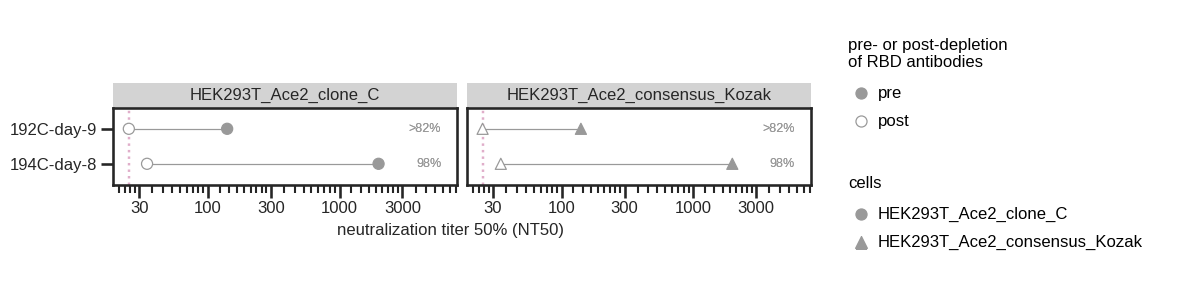
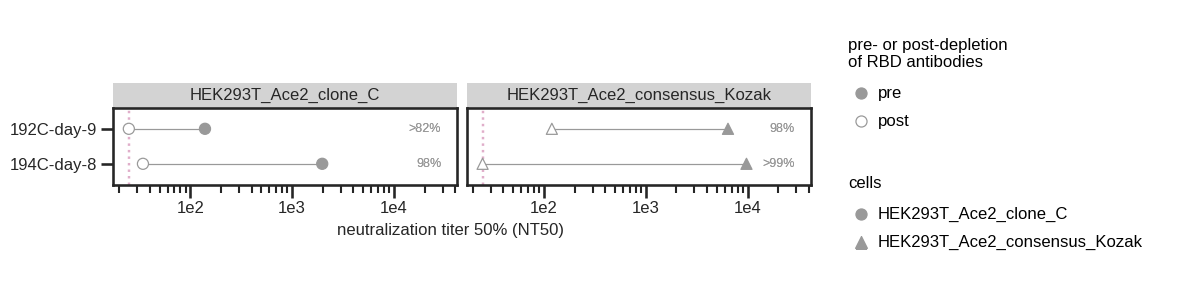
neut results

diff --git a/results/summary/virus_neutralization.md b/results/summary/virus_neutralization.md
@@ -146,37 +146,37 @@ fitparams_combined.head(10)
       <th>0</th>
       <td>192C-day-9__HEK293T_Ace2_consensus_Kozak</td>
       <td>pre-depletion</td>
-      <td>0.007157</td>
+      <td>0.000156</td>
       <td>interpolated</td>
-      <td>139.722571</td>
+      <td>6403.650984</td>
       <td>False</td>
     </tr>
     <tr>
       <th>1</th>
       <td>192C-day-9__HEK293T_Ace2_consensus_Kozak</td>
       <td>post-depletion</td>
-      <td>0.040000</td>
-      <td>lower</td>
-      <td>25.000000</td>
-      <td>True</td>
+      <td>0.008359</td>
+      <td>interpolated</td>
+      <td>119.627096</td>
+      <td>False</td>
     </tr>
     <tr>
       <th>2</th>
       <td>194C-day-8__HEK293T_Ace2_consensus_Kozak</td>
       <td>pre-depletion</td>
-      <td>0.000506</td>
+      <td>0.000103</td>
       <td>interpolated</td>
-      <td>1976.592157</td>
+      <td>9722.735744</td>
       <td>False</td>
     </tr>
     <tr>
       <th>3</th>
       <td>194C-day-8__HEK293T_Ace2_consensus_Kozak</td>
       <td>post-depletion</td>
-      <td>0.029077</td>
-      <td>interpolated</td>
-      <td>34.391149</td>
-      <td>False</td>
+      <td>0.040000</td>
+      <td>lower</td>
+      <td>25.000000</td>
+      <td>True</td>
     </tr>
     <tr>
       <th>4</th>
